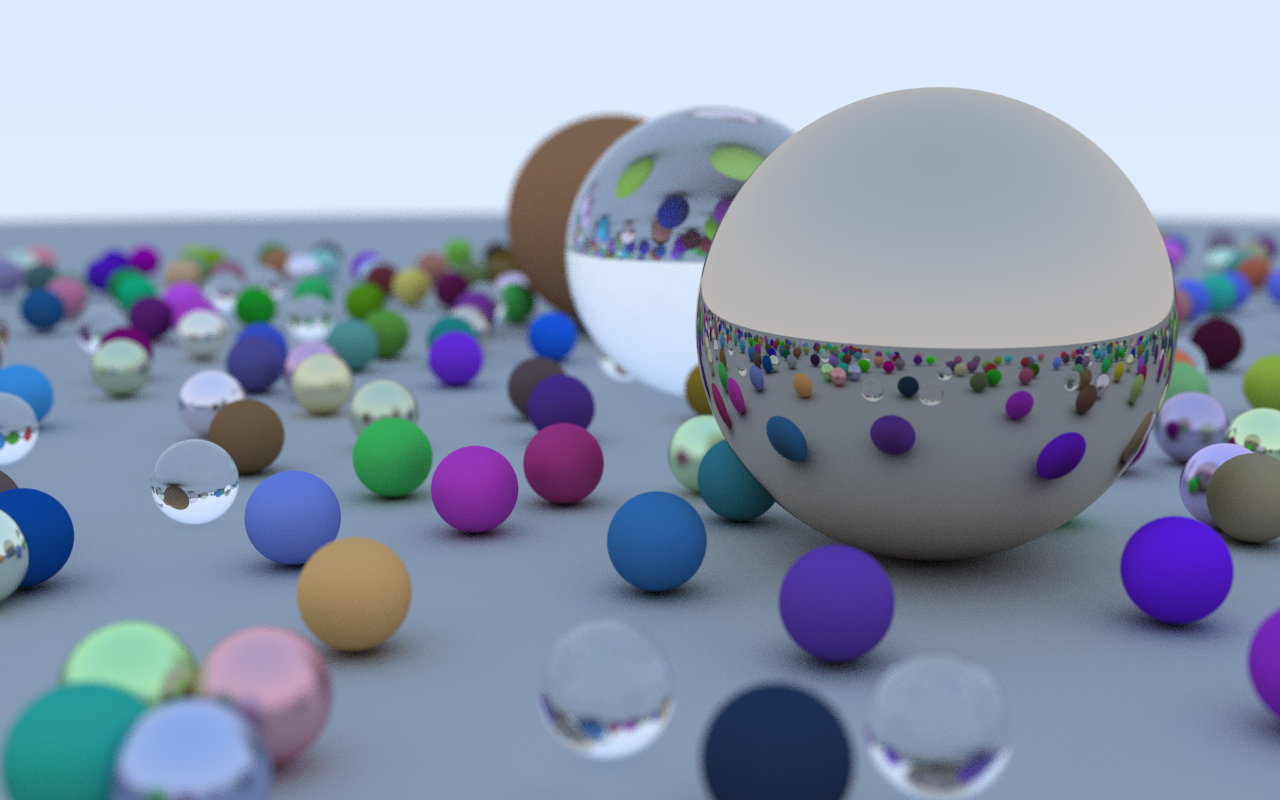
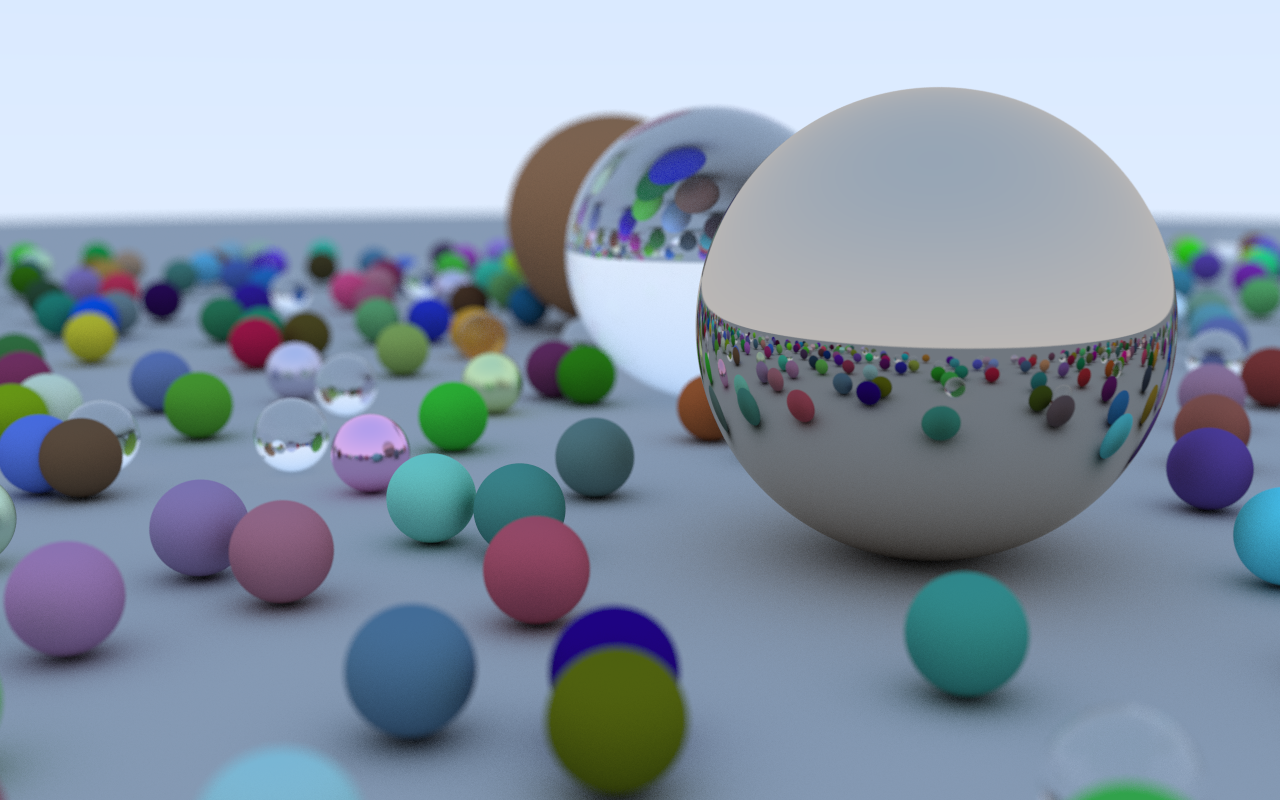
Parallel

diff --git a/src/main.rs b/src/main.rs
@@ -4,6 +4,7 @@ use crate::material::{Dielectric, Lambertian, Material, Metal};
 use crate::vec3::{Vec3};
 use std::io::BufWriter;
 use std::fs::File;
+use std::sync::Arc;
 
 mod camera;
 mod hittable;
@@ -13,9 +14,9 @@ mod renderer;
 mod vec3;
 
 fn main() {
-    let nx = 300;
-    let ny = 300;
-    let ns = 10;
+    let nx = 1280;
+    let ny = 800;
+    let ns = 300;
     let world: Vec<Box<dyn Hittable>> = random_scene()
         .into_iter()
         .map(|s| Box::new(s) as Box<dyn Hittable>)
@@ -54,26 +55,26 @@ fn random_scene() -> Vec<Sphere> {
         Sphere::new(
             Vec3::new(0.0, -1000.0, 0.0),
             1000.0,
-            Box::new(Lambertian {
+            Arc::new(Lambertian {
                 albedo: Vec3::new(0.5, 0.5, 0.5),
             }),
         ),
         Sphere::new(
             Vec3::new(0.0, 1.0, 0.0),
             1.0,
-            Box::new(Dielectric::new(1.5)),
+            Arc::new(Dielectric::new(1.5)),
         ),
         Sphere::new(
             Vec3::new(-4.0, 1.0, 0.0),
             1.0,
-            Box::new(Lambertian {
+            Arc::new(Lambertian {
                 albedo: Vec3::new(0.4, 0.2, 0.1),
             }),
         ),
         Sphere::new(
             Vec3::new(4.0, 1.0, 0.0),
             1.0,
-            Box::new(Metal {
+            Arc::new(Metal {
                 albedo: Vec3::new(0.7, 0.6, 0.5),
                 fuzz: 0.0,
             }),
@@ -92,9 +93,9 @@ fn random_scene() -> Vec<Sphere> {
                 continue;
             }
 
-            let material: Box<dyn Material>;
+            let material: Arc<dyn Material>;
             if choose_mat < 0.8 {
-                material = Box::new(Lambertian {
+                material = Arc::new(Lambertian {
                     albedo: Vec3::new(
                         rand::random::<f32>() * rand::random::<f32>(),
                         rand::random::<f32>() * rand::random::<f32>(),
@@ -102,7 +103,7 @@ fn random_scene() -> Vec<Sphere> {
                     ),
                 });
             } else if choose_mat < 0.9 {
-                material = Box::new(Metal {
+                material = Arc::new(Metal {
                     albedo: Vec3::new(
                         0.5 * (1.0 + rand::random::<f32>()),
                         0.5 * (1.0 + rand::random::<f32>()),
@@ -111,7 +112,7 @@ fn random_scene() -> Vec<Sphere> {
                     fuzz: 0.5 * rand::random::<f32>(),
                 });
             } else {
-                material = Box::new(Dielectric::new(1.5));
+                material = Arc::new(Dielectric::new(1.5));
             }
 
             spheres.push(Sphere::new(center, 0.2, material))

diff --git a/src/renderer.rs b/src/renderer.rs
@@ -2,6 +2,7 @@ use crate::camera::Camera;
 use crate::hittable::Hittable;
 use crate::ray::Ray;
 use crate::vec3::{unit_vector, Vec3};
+use rayon::prelude::*;
 
 pub(crate) fn render(
     world: &dyn Hittable,
@@ -10,10 +11,11 @@ pub(crate) fn render(
     ny: usize,
     ns: usize,
 ) -> Vec<u8> {
-    let pixels: Vec<u8> = (0..ny)
+    let pixels = (0..ny)
+        .into_par_iter()
         .rev()
         .flat_map(|j| {
-            (0..nx).flat_map(move |i| {
+            (0..nx).into_par_iter().flat_map(move |i| {
                 let mut col = Vec3::new(0.0, 0.0, 0.0);
                 for _ in 0..ns {
                     let u = (i as f32 + rand::random::<f32>()) / nx as f32;
@@ -24,7 +26,7 @@ pub(crate) fn render(
                 col /= ns as f32;
                 col = Vec3::new(col[0].sqrt(), col[1].sqrt(), col[2].sqrt());
 
-                (0..3).map(move |k| ((255.99 * col[k]) as u8))
+                (0..3).into_par_iter().map(move |k| (255.99 * col[k as usize]).min(255.0) as u8)
             })
         })
         .collect();

diff --git a/src/hittable.rs b/src/hittable.rs
@@ -1,6 +1,7 @@
 use crate::material::Material;
 use crate::ray::Ray;
 use crate::vec3::{dot, Vec3};
+use std::sync::Arc;
 
 #[derive(Copy, Clone)]
 pub struct HitRecord<'a> {
@@ -10,7 +11,7 @@ pub struct HitRecord<'a> {
     pub material: &'a dyn Material,
 }
 
-pub trait Hittable {
+pub trait Hittable: Sync {
     fn hit(&self, r: &Ray, t_min: f32, t_max: f32) -> Option<HitRecord>;
 }
 
@@ -38,11 +39,11 @@ impl Hittable for Vec<Box<dyn Hittable>> {
 pub struct Sphere {
     center: Vec3,
     radius: f32,
-    material: Box<dyn Material>,
+    material: Arc<dyn Material>,
 }
 
 impl Sphere {
-    pub(crate) fn new(center: Vec3, radius: f32, material: Box<dyn Material>) -> Sphere {
+    pub(crate) fn new(center: Vec3, radius: f32, material: Arc<dyn Material>) -> Sphere {
         Sphere {
             radius,
             center,

diff --git a/src/material.rs b/src/material.rs
@@ -7,7 +7,7 @@ pub struct Scatter {
     pub scattered: Option<Ray>,
 }
 
-pub trait Material {
+pub trait Material: Sync + Send {
     fn scatter(&self, r_in: &Ray, hit_record: &HitRecord) -> Option<Scatter>;
 }
 
